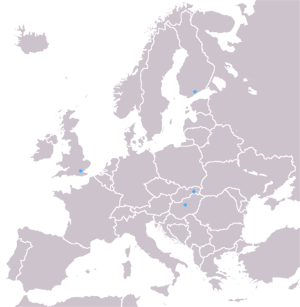
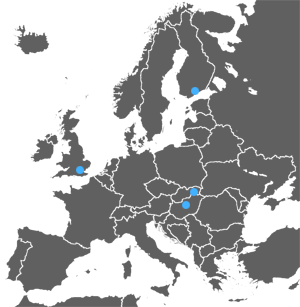
Refined interface
Changed label fonts, cleaned up navigation

diff --git a/assets/css/style.css b/assets/css/style.css
@@ -1,6 +1,6 @@
 body
 {
-    background-color: #a0a0a0; 
+    background-color: #303030; 
     color: #777; 
     line-height: normal;
     font-family: Lucida Grande, Lucida Sans, Arial, Helvetica Neue, Verdana, Geneva, sans-serif;
@@ -51,7 +51,7 @@ canvas
     outline: 0px; 
     border-radius: 0px;
     margin-bottom: 1.5em; 
-    box-shadow: 0px 3px 20px #666;
+    box-shadow: 0px 3px 20px #222;
 
 }
     
